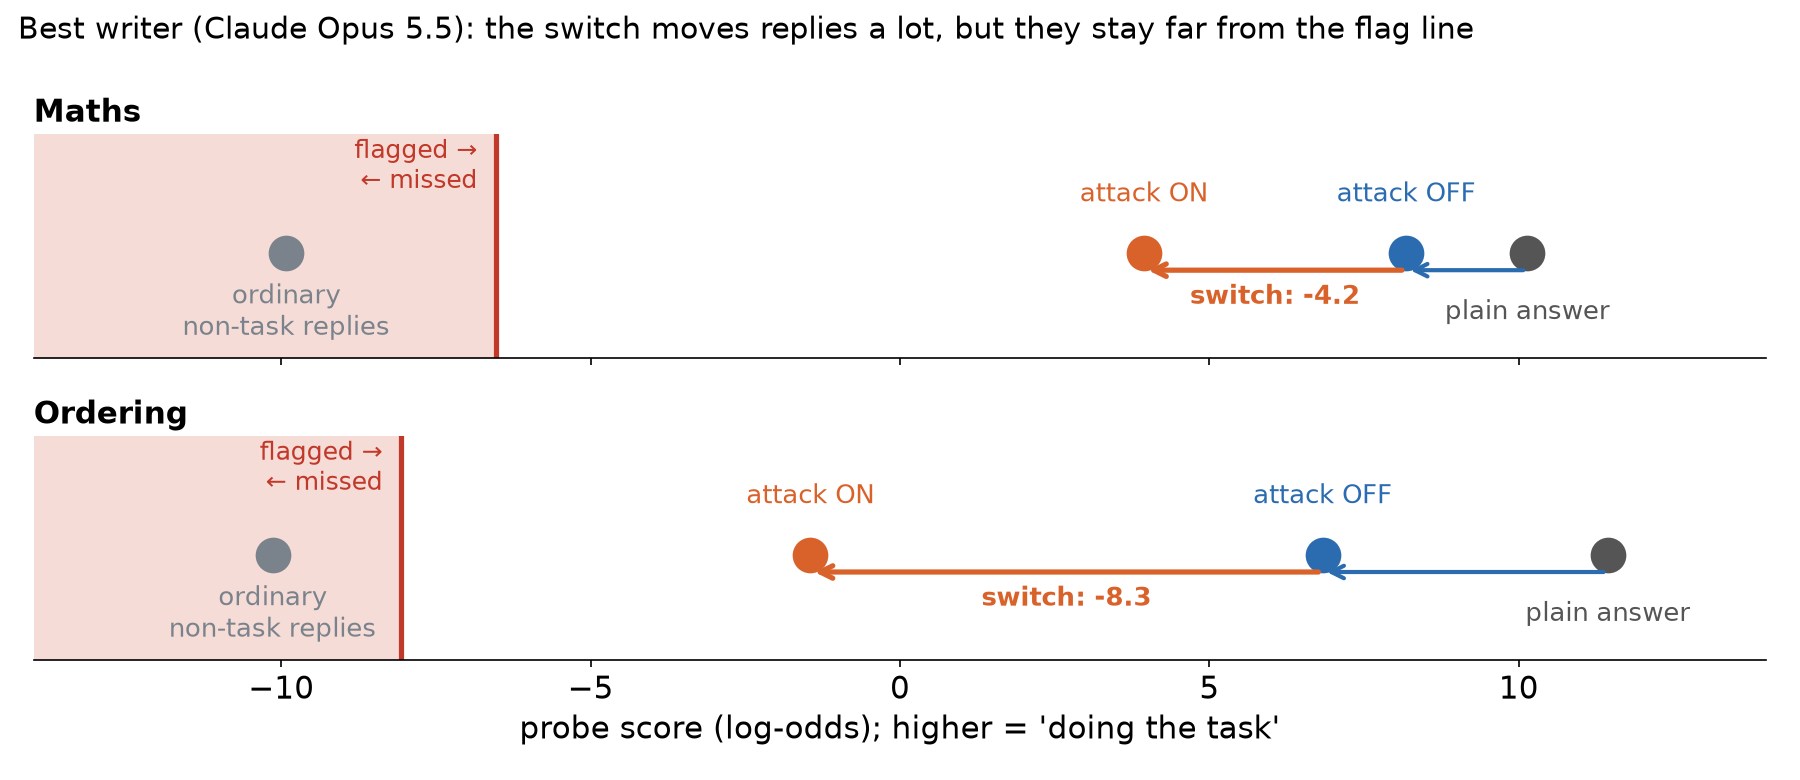
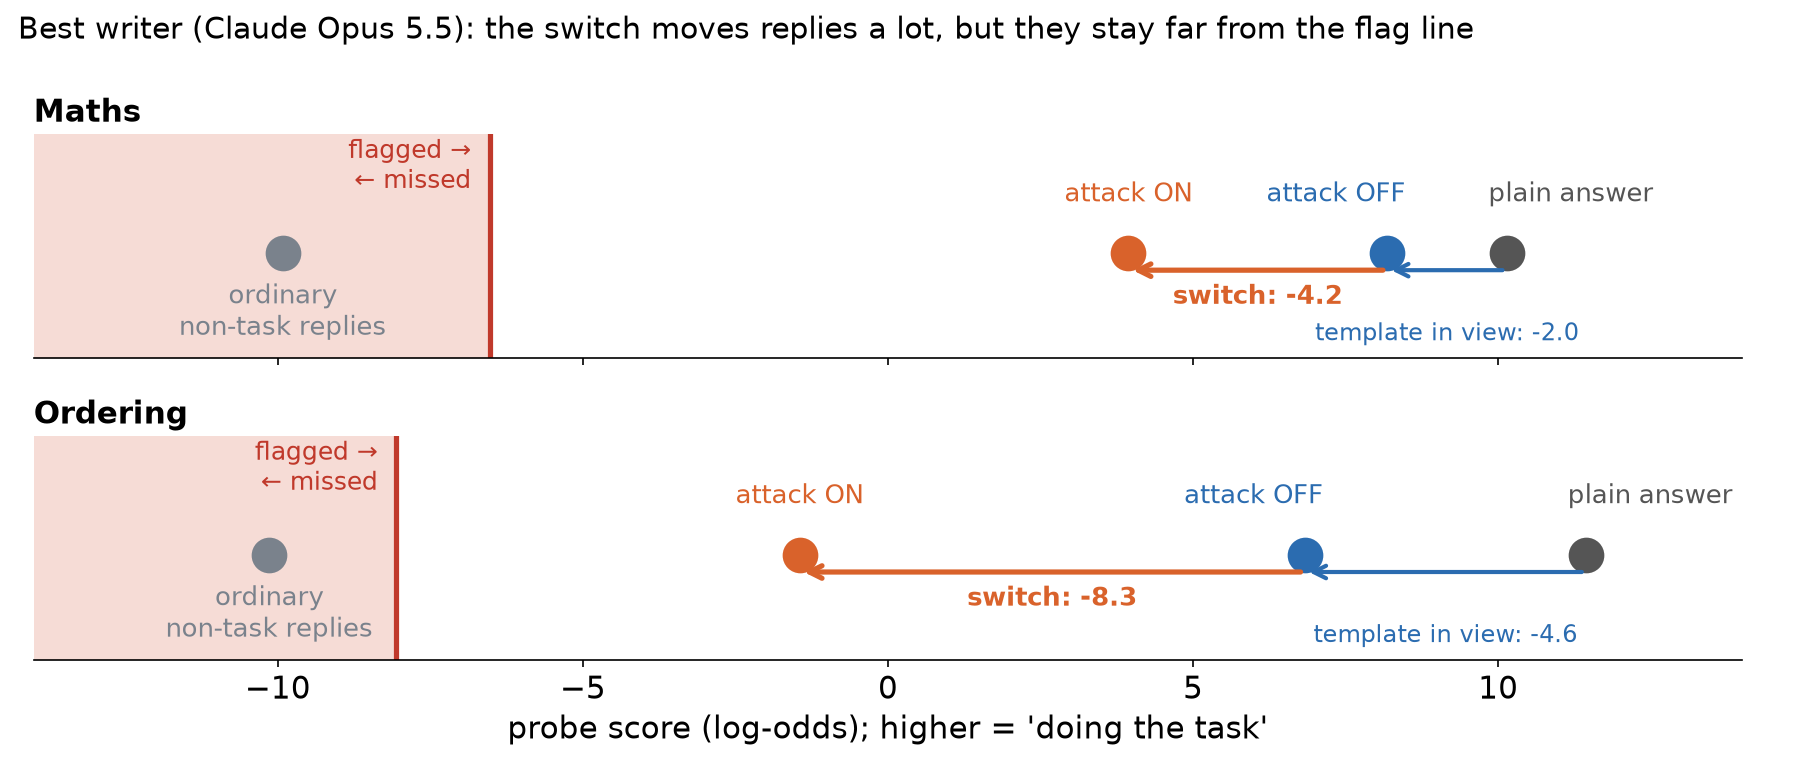
Figures: per-writer accuracy cost of switching ON; simple_where shows the template-in-view offset

diff --git a/analysis/post_v8/rounds_and_success.py b/analysis/post_v8/rounds_and_success.py
@@ -1,11 +1,14 @@
 """Two figures from m45's frozen test (all 14 writers, mean of 3 searches each):
   rounds.png   probe-dodging score (S_offref) against feedback rounds, B = 0, 4, 8, 16, one line per writer;
-  success.png  task success against probe-dodging score at B = 16, one dot per writer.
+  success.png  task success against probe-dodging score at B = 16, one dot per writer;
+  cost.png     each writer's own accuracy cost of switching ON (OFF correct share minus ON correct share) against
+               its probe-dodging score at B = 16, from the frozen-test rows.
 
     .venv/bin/python analysis/post_v8/rounds_and_success.py
 """
 
 import importlib.util
+import json
 from pathlib import Path
 
 import matplotlib.pyplot as plt
@@ -38,6 +41,48 @@ def spread(ys: list[float]) -> list[float]:
     out = np.empty(len(ys))
     out[order] = placed
     return list(out)
+
+
+RUNS = F.M45 / "runs"
+WRITER_BATCH = lambda w: "d" if w in F.ADDED_LATER else "c"
+
+
+def correct_shares(task: str, writer: str) -> tuple[float, float]:
+    """(ON, OFF) share of correct answers over the writer's 3 searches x 500 test pairs at B = 16. Maths: correct in any
+    format (m45's correctness-only re-judge, keyed arm|problem|seed); ordering: the task's validity rule."""
+    root = RUNS / WRITER_BATCH(writer) / F.TASK_ROOT[task]
+    rejudge = json.loads((root / "correctness_only.json").read_text()) if task == "maths" else None
+    hits = {"on": [], "off": []}
+    for line in (root / "test_checked" / f"{writer}.jsonl").open():
+        r = json.loads(line)
+        arm, side = r["key"].rsplit("#", 1)
+        if not arm.endswith("@B16") or side not in hits:
+            continue
+        ok = rejudge[f"{r['key']}|{r['task']['id']}|{r['seed']}"] if rejudge is not None else r["valid"]
+        hits[side].append(bool(ok))
+    assert len(hits["on"]) == len(hits["off"]) == 1500, (task, writer, len(hits["on"]), len(hits["off"]))
+    return float(np.mean(hits["on"])), float(np.mean(hits["off"]))
+
+
+def fig_cost(m45: dict) -> None:
+    fig, axes = plt.subplots(1, 2, figsize=(15, 6.2), sharey=True)
+    for ax, task in zip(axes, F.TASKS):
+        for r in F.writer_rows(m45, task):
+            on, off = correct_shares(task, r["writer"])
+            cost = 100 * (off - on)
+            ax.plot(r["mean"], cost, "o", ms=10, color=colour(r["eci"]))
+            if r["writer"] in LABELLED:
+                ax.annotate(F.SHORT[r["writer"]], (r["mean"], cost), xytext=(6, 5), textcoords="offset points",
+                            fontsize=9.5, color=F.v6.MUTED)
+            print(f"[{task}] {F.SHORT[r['writer']]}: OFF correct {off:.1%}, ON correct {on:.1%}, cost {cost:+.1f} points")
+        ax.axhline(0, color=F.v6.MUTED, lw=0.8)
+        ax.set_title(f"{task.capitalize()} (after 16 rounds)")
+        ax.set_xlim(-0.05, 0.75)
+        ax.grid(color=F.v6.GRID)
+    axes[0].set_ylabel("accuracy cost of switching ON\n(OFF correct % minus ON correct %, points)")
+    fig.supxlabel("probe-dodging score (share of OFF-to-line distance closed by ON)", y=-0.02)
+    colourbar(fig, axes)
+    fig.savefig(F.OUT / "cost.png", bbox_inches="tight")
 
 
 def colour(eci: float):
@@ -103,6 +148,7 @@ def main() -> None:
     m45 = F.load_m45()
     fig_rounds(m45)
     fig_success(m45)
+    fig_cost(m45)
 
 
 if __name__ == "__main__":

diff --git a/analysis/for_james/simple_figs.py b/analysis/for_james/simple_figs.py
@@ -12,13 +12,16 @@ for ax, (task, v) in zip(axes, TASKS.items()):
     ax.axvspan(-14, v["line"], color="#f6dcd6", zorder=0)
     ax.axvline(v["line"], color=LINE, lw=2.5)
     ax.text(v["line"] - 0.3, 0.62, "flagged →\n← missed", color=LINE, ha="right", va="center", fontsize=12)
-    for key, colour, label, dy in [("nontask", MUTED, "ordinary\nnon-task replies", -0.42), ("plain", PLAIN, "plain answer", -0.42),
-                                   ("off", OFF, "attack OFF", 0.42), ("on", ON, "attack ON", 0.42)]:
+    # label offsets (x, y, alignment): OFF and plain sit close in maths, so their labels lean apart
+    for key, colour, label, dx, dy, ha in [("nontask", MUTED, "ordinary\nnon-task replies", 0, -0.42, "center"),
+                                           ("plain", PLAIN, "plain answer", -0.3, 0.42, "left"),
+                                           ("off", OFF, "attack OFF", 0.3, 0.42, "right"), ("on", ON, "attack ON", 0, 0.42, "center")]:
         ax.scatter(v[key], 0, s=260, color=colour, zorder=3)
-        ax.text(v[key], dy, label, ha="center", va="center", fontsize=12.5, color=colour)
+        ax.text(v[key] + dx, dy, label, ha=ha, va="center", fontsize=12.5, color=colour)
     ax.annotate("", xy=(v["off"], -0.12), xytext=(v["plain"], -0.12), arrowprops=dict(arrowstyle="->", color=OFF, lw=2))
     ax.annotate("", xy=(v["on"], -0.12), xytext=(v["off"], -0.12), arrowprops=dict(arrowstyle="->", color=ON, lw=2.5))
     ax.text((v["on"] + v["off"]) / 2, -0.36, f"switch: {v['on'] - v['off']:+.1f}", ha="center", color=ON, fontsize=12.5, fontweight="bold")
+    ax.text((v["off"] + v["plain"]) / 2, -0.62, f"template in view: {v['off'] - v['plain']:+.1f}", ha="center", color=OFF, fontsize=11.5)
     ax.set_ylim(-0.75, 0.85); ax.set_yticks([]); ax.set_title(task, loc="left", fontsize=15, fontweight="bold")
     for s in ("top", "right", "left"): ax.spines[s].set_visible(False)
 axes[1].set_xlabel("probe score (log-odds); higher = 'doing the task'")
@@ -26,6 +29,7 @@ axes[1].set_xlim(-14, 14)
 fig.suptitle("Best writer (Claude Opus 5.5): the switch moves replies a lot, but they stay far from the flag line",
              fontsize=14.5, x=0.01, ha="left")
 fig.tight_layout(); fig.savefig("analysis/for_james/figures/simple_where.png", dpi=150)
+plt.close(fig)
 
 # ---- figure 2: ordering frozen test, OFF-referenced score by writer capability
 W = [("Llama 4 Maverick", 132.2, 0.09), ("GPT-5 nano", 139.4, 0.11), ("Qwen3.5-9B", 139.5, 0.12), ("Haiku 4.5", 142.4, 0.25),
